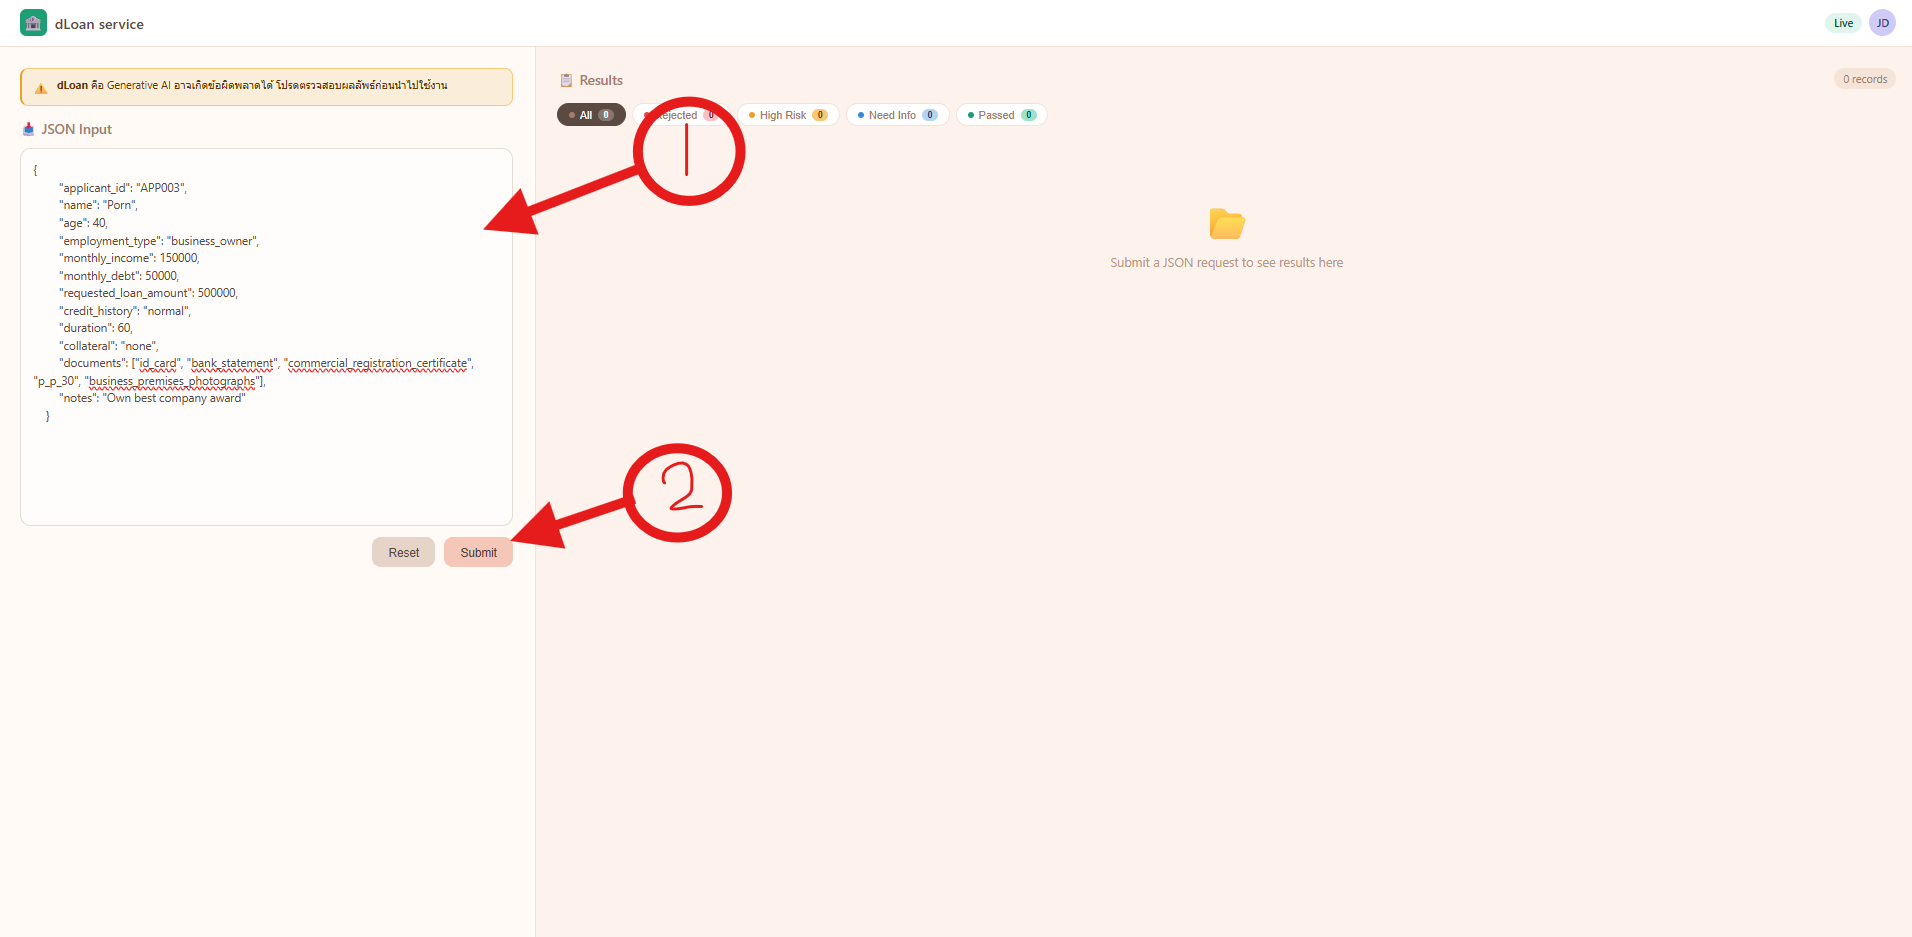
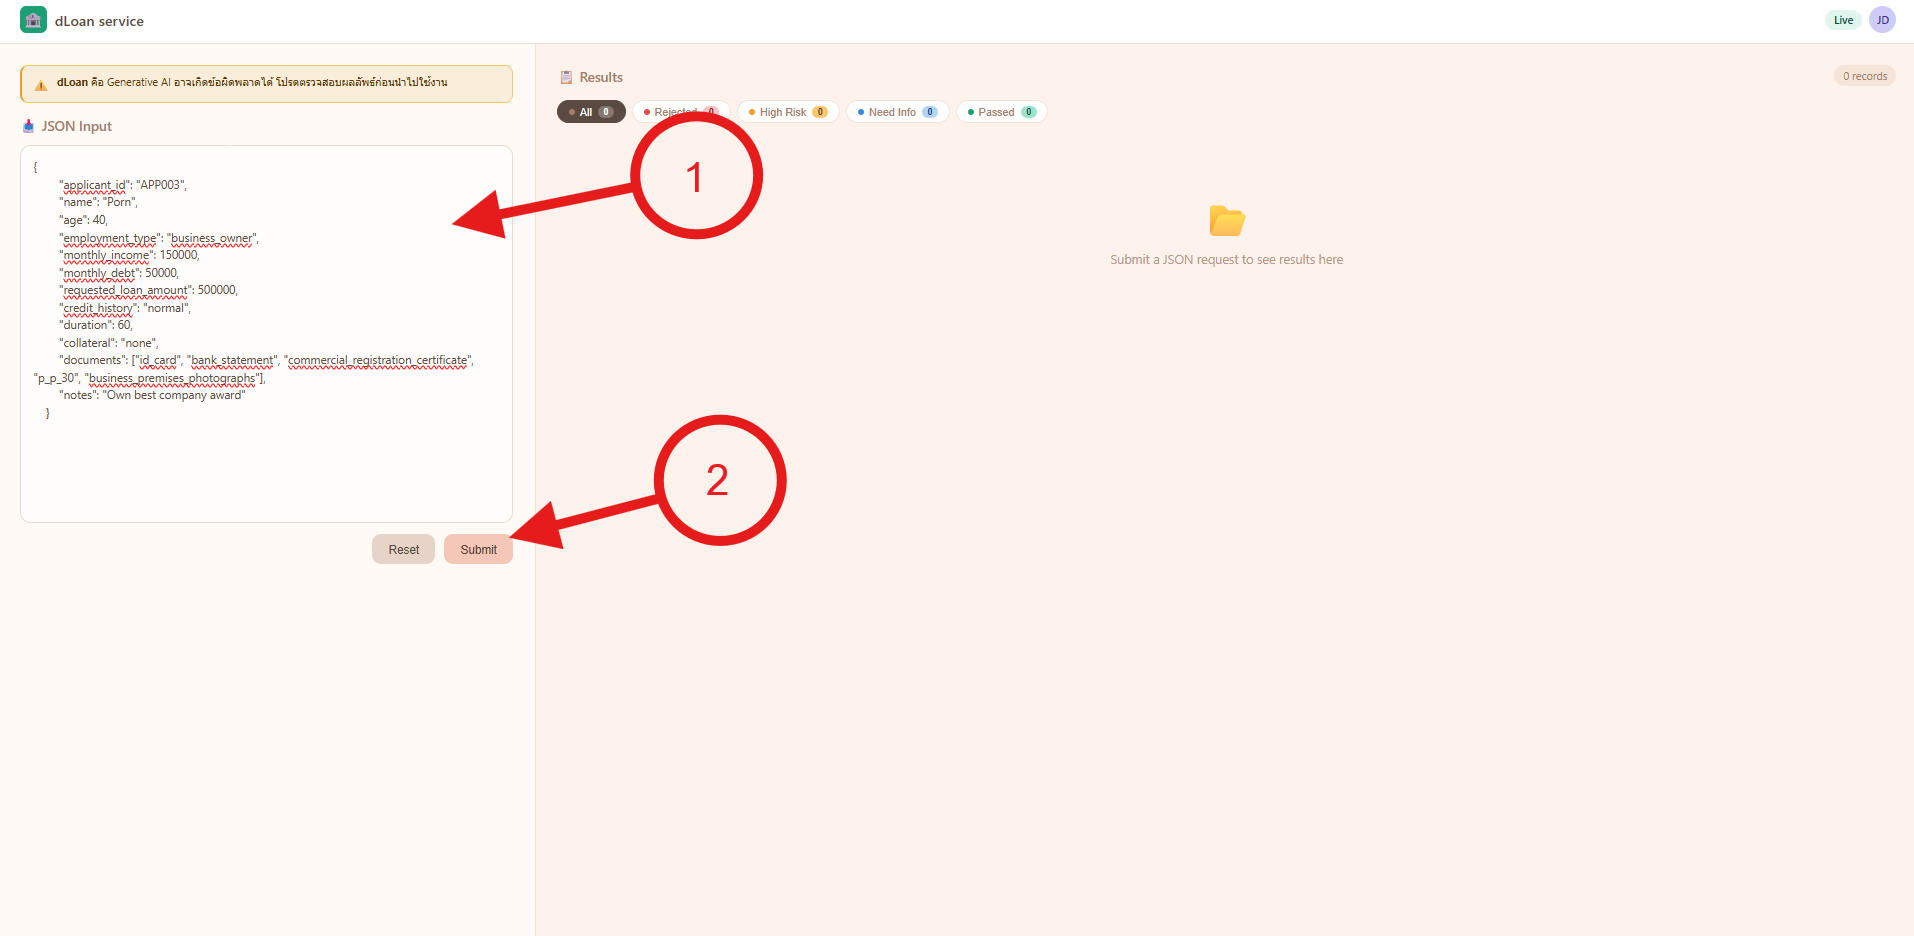
Adjust system prompt

diff --git a/app/services/model.py b/app/services/model.py
@@ -22,10 +22,11 @@ PROMPT = """
 5.ปัจจัยที่มีผลกระทบต่อการกู้
 - พิจารณาความเสี่ยงอื่นๆ เช่น สภาวะเศรษฐกิจ ภัยพิบัติ โรคระบาด หรือนโยบายการเงินต่างๆ
 
-# ข้อมูลประการตัดสินใจ
-1. ในกรณีที่สัดส่วนหนี้สินต่อรายได้หลังการกู้ขอสินเชื่อสูงเกินกว่า 70% ให้พิจารณา
-- มูลค่าของสิ่งของค้ำประกัน
-- หากไม่มีสิ่งของค้ำประกัน ให้แนะนำเป็น High Risk review
+# เกณฑ์ช่วยประกอบการพิจารณา
+- อายุ
+ช่วงอายุ 21 ถึง 25 เป็นช่วงที่อาจมีการเปลี่ยนหรือย้ายสายงานบ่อยความมั่นคงยังไม่สูงมากนัก
+ช่วงอายุ 26 ถึง 55 เป็นช่วงที่มีความมั่นคงในช่วงวัยทำงาน
+ช่วงอายุ 56 ถึง 60 เป็นช่วงอายุที่มีความมั่นคง แต่มีความเสี่ยงในเรื่องการเกษียณ และ สุขภาพ
 
 # กฎ
 - ตอบกลับเป็นภาษาไทย
@@ -36,9 +37,12 @@ PROMPT = """
 	"risk_flags": [],
 	"explanation": ""
 }
-- recommendation มีสองคำตอบคือ Passed เมื่อคิดว่าบุคคลนี้สามารถปล่อยสินเชื่อได้ และ High Risk review เมื่อคิดว่าบุคคลนี้มีความเสี่ยงสูงหากปล่อยสินเชื่อ
-- risk_flags: พิจารณาความเสี่ยงที่พบเจอในข้อมูลของผู้ขอสินเชื่อทั้งด้านการเงิน และปัจจัยภายนอก
-- explanation: ข้อความวิเคราะห์เชิงสรุปผลโดยวิเคราะห์แบบองค์รวมและหาความเชื่อมโยงเชิงลึก สรุปลงมาเป็นข้อความที่ทำความเข้าใจได้ง่าย ข้อความไม่ควรเกิน 150 คำ
+เริ่มต้นโดย
+1. risk_flags: พิจารณาความเสี่ยงที่พบเจอในข้อมูลของผู้ขอสินเชื่อทั้งด้านการเงิน และปัจจัยภายนอกหากไม่พบความเสี่ยงไม่จำเป็นต้องระบุ
+2. explanation: ข้อความวิเคราะห์เชิงสรุปผลโดยวิเคราะห์แบบองค์รวมและหาความเชื่อมโยงเชิงลึก สรุปลงมาเป็นข้อความที่ทำความเข้าใจได้ง่ายกึ่งทางการเชิงแนะนำ
+โดยเริ่มอธิบายจาก ความมั่นคงทางอาชีพ -> รายได้ -> อัตราส่วนหนี้สินต่อรายได้ ก่อนและหลังการผ่อนชำระ -> ประวัติเครดิต -> สิ้งของค้ำประกัน -> อธิบายความเสี่ยงที่อาจเกิดขึ้น
+ข้อความไม่ควรเกิน 150 คำ
+3. recommendation มีสองคำตอบคือ Passed เมื่อคิดว่าบุคคลนี้สามารถปล่อยสินเชื่อได้ และ High Risk review เมื่อคิดว่าบุคคลนี้มีความเสี่ยงสูงหากปล่อยสินเชื่อ โดยอาศัยข้อมูลการวิเคราะห์ข้างต้น
 """
 
 def user_prompt_generate(payload, cal_data):

diff --git a/test_case.py b/test_case.py
@@ -96,7 +96,7 @@ test_cases = [
     # 6. Missing multiple field data
     # ผลลัพท์ที่คาดหวัง: ระบบตอบกลับเป็น Need information โดยบอกข้อมูลสูญหายใน
     # "missing_fields" = ["employment_type", "credit_history"]
-    # "missing_documents" = ["id_card", "salary_slip", "bank_statement"]
+    # "missing_documents" = []
     {
         "applicant_id": "APP006",
         "name": "Preecha",
@@ -174,7 +174,7 @@ test_cases = [
     },
 
     # 10. High dti ไม่มีของคำ้ประกัน
-    # ผลลัพท์ที่คาดหวัง: ระบบตอบกลับเป็น Rejected และให้เหตุผล สัดส่วนหนี้สินต่อรายได้หากมีการผ่อนสินเชื่อสูงเกินกว่าเกณฑ์ 70% และมีหลายได้คงเหลือหลังหักค่าใช้จ่ายต่ำกว่า 20,000 บาท
+    # ผลลัพท์ที่คาดหวัง: ระบบตอบกลับเป็น Rejected และให้เหตุผล สัดส่วนหนี้สินต่อรายได้หากมีการผ่อนสินเชื่อสูงเกินกว่าเกณฑ์ 70% และมีรายได้คงเหลือหลังหักค่าใช้จ่ายต่ำกว่า 20,000 บาท
     {
         "applicant_id": "APP010",
         "name": "Mint",

diff --git a/README.md b/README.md
@@ -61,7 +61,7 @@ https://www.python.org/downloads/windows/
 ---
 ### 3. ติดตั้ง Package Python
 
-1. เปิด Terminal ด้วยคีย์ลัด Win + R
+1. เปิด Terminal ด้วยคีย์ลัด **`Win + R`**
 2. พิมพ์ cmd แล้วกด Enter
 3. ใช้คำสั่ง cd ไปยังโฟลเดอร์ที่แตกไฟล์มาก่อนหน้า
 ```bash
@@ -113,7 +113,7 @@ http://localhost:8000/
   <img src="Instruction_image/web1.png" width="800" alt="Code Button">
 </p>
 
-1. โดยในการเริ่มใช้งานให้นำข้อมูลรูปแบบ JSON ที่เตรียมไว้กรอกเข้าไปยังฟอร์มด้านซ้ายมือ จากนั้นกดปุ่ม submit
+1. โดยในการเริ่มใช้งานให้นำข้อมูลรูปแบบ JSON ที่เตรียมไว้กรอกเข้าไปยังฟอร์มด้านซ้ายมือ จากนั้นกดปุ่ม **`submit`**
 <p align="center">
   <img src="Instruction_image/web2.png" width="800" alt="Code Button">
 </p>